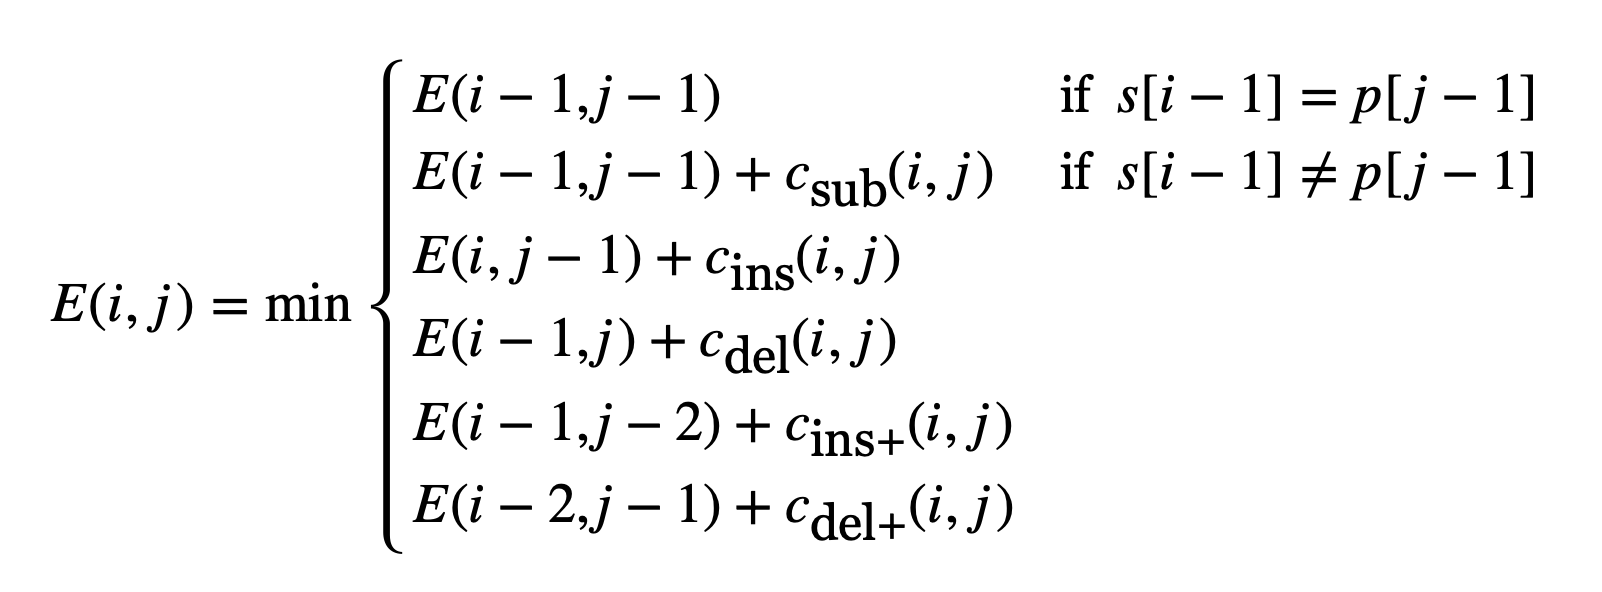
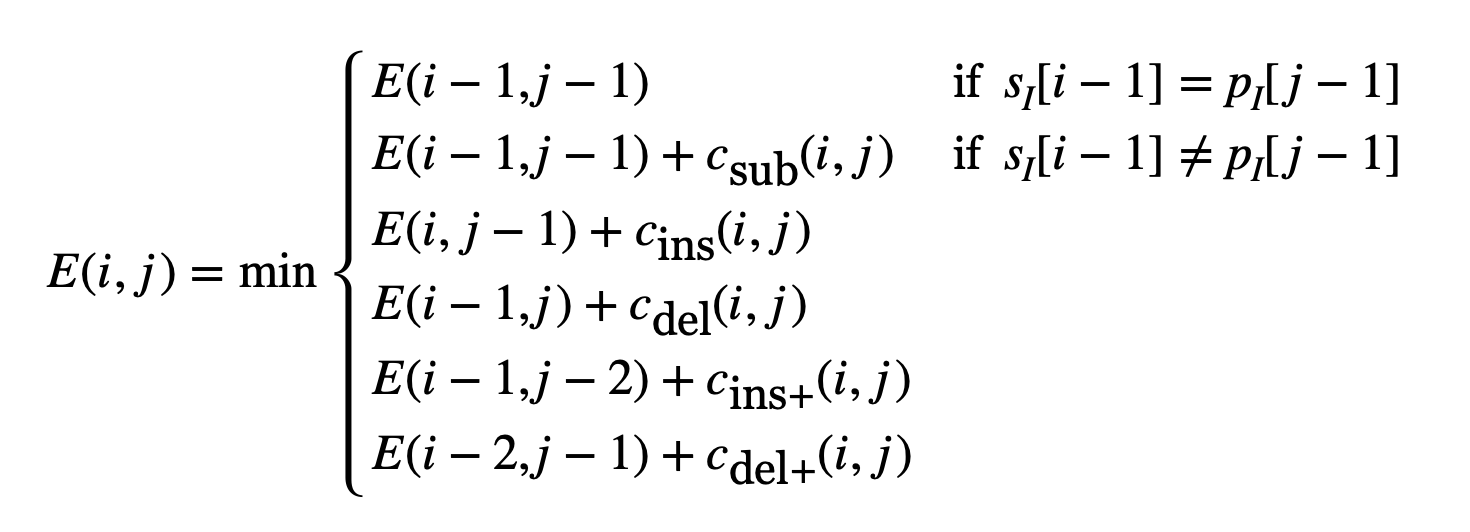
Updated README to reflect algorithmic implementation of duration inclusion

Changed region(s): [[0.0306, 0.0902, 0.9796, 0.9323], [0.6429, 0.1203, 0.9796, 0.2105]]

diff --git a/model/transformed_intervals.py b/model/transformed_intervals.py
@@ -26,3 +26,4 @@ class TransformedIntervals:
 
     def set_transformation(self, transformation: Transformation) -> None:
         self.values = self.get_transformation(transformation)
+        self.transformation = transformation

diff --git a/README.md b/README.md
@@ -127,11 +127,13 @@ However, unlike typical applications of *edit distance*, it is not matched based
 
 Using the sequence of *intervals* as the basis for fuzzy matching, it's now possible to account for interval contractions/dilations in subsequent subject statements. One can think also of this as "soft" matching.
 
-In the code and here, we will refer to a *voice* as a **note sequence** or **stream**. The subject is synonymously called the **pattern**. The *stream* is almost always longer than the *pattern*, and like its name suggests, the *stream* continuously provides a window (i.e. a buffer) for the *pattern* to iteratively match over the entire piece of music. Again, recall that the *intervals* are used, not the absolute pitches. Let's refer to the length of the sequence of intervals for the stream and pattern to, respectively, be $S$ and $P$. Note, it should be apparent that, in code, voices are treated as separate entities as *note sequences* and are processed independently, even though notes do coincide between voices.
+Another factor which contributes to the matching process is the *durations* of the notes themselves. While intervals may contribute to the majority of the accuracy provided by the matching algorithm, only note duration will be able to provide distinction between a subject statement and both a mere stream of supporting notes and transformations such as *augmentation* and *diminution*. Thus, *intervals* and *durations* must be combined together in an intuitive way which captures the expected matching behaviour.
+
+In the code and here, we will refer to a *voice* as a **note sequence** or **stream**. The subject is synonymously called the **pattern**. The *stream* is almost always longer than the *pattern*, and like its name suggests, the *stream* continuously provides a window (i.e. a buffer) for the *pattern* to iteratively match over the entire piece of music. Again, recall that the *intervals* and *durations* are used, not the absolute pitches. Let's refer to the length of the sequence of intervals for the stream and pattern to, respectively, be $S$ and $P$. Note, it should be apparent that, in code, voices are treated as separate entities as *note sequences* and are processed independently, even though notes do coincide between voices.
 
 ![stream-pattern matching](images/stream_pattern_matching.jpeg)
 
-There are two clear issues with what is shown above. Because note insertion/deletion is possible for the stream, a window size fixed to the length of the pattern is insufficient to capture all likely alterations. Thus, a reasonable assumption to make is that the number of matched notes in the stream is at most some factor $n$ times the size of the pattern sequence intervals $P$. A typical factor is $2$. Another issue is that sequential step-by-step iteration of the pattern over the stream is far too inefficient and uses too many unnecessary comparisons when, visually, one can tell that various parts of the pattern are distinct.
+There are two clear issues with what is shown above. Because note insertion/deletion is possible for the stream, a window size fixed to the length of the pattern is insufficient to capture all likely alterations. Thus, a reasonable assumption to make is that the number of matched notes in the stream is at most some factor $n$ times the size of the pattern sequence intervals $P$. A typical factor is $2$, but circumstances may require such factor to be slightly less than $2$. Another issue is that sequential step-by-step iteration of the pattern over the stream is far too inefficient and uses too many unnecessary comparisons when, visually, one can tell that various parts of the pattern are distinct.
 
 There are three levels to the entire algorithm. The lower-level algorithm does something analogous to fuzzy substring matching, the higher-level algorithm controls optimized window propagation, while the final wrapper on the higher-level algorithm uses weighted interval scheduling to select the best transformations to highlight.
 
@@ -139,7 +141,7 @@ There are three levels to the entire algorithm. The lower-level algorithm does s
 
 Let us assume we have a stream window of length $2P$ and pattern length $P$. A typical implementation of edit distance between the stream and pattern calculates the distance between both entire sequences. The issue with this approach is that intermediate edit distance values calculate distance from the start of the stream, which would include costs that are irrelevant.
 
-Assuming the memoization matrix is of dimension $(S + 1) \times (P + 1)$, a known solution is to begin the algorithm by filling the first column with $0$ (to indicate $0$ cost of shifts) and the typical cumulative sum of costs of the absolute value of each interval value in the pattern sequence for the first row. The matrix is then filled *bottom-up* based on the diagram below and associated recurrence relation where the *stream* and *pattern* are denoted *s* and *p* respectively. Edit distance function is denoted by $E$.
+Assuming the memoization matrix is of dimension $(S + 1) \times (P + 1)$, a known solution is to begin the algorithm by filling the first column with $0$ (to indicate $0$ cost of shifts) and the typical cumulative sum of costs of each interval and duration value in the pattern sequence for the first row. The matrix is then filled *bottom-up* based on the diagram below and associated recurrence relation where the *stream* and *pattern* are denoted *s* and *p* respectively. Edit distance function is denoted by $E$. Furthermore, $s_I$ and $s_D$ denote *stream intervals* and *stream durations*, and $p_I$ and $p_D$ denote *pattern intervals* and *pattern durations*.
 
 ![edit distance table](images/edit_distance_table.png)
 
@@ -149,7 +151,11 @@ Observe that, unlike typical edit distance, there are two additional cases at th
 
 ![edit distance costs](images/cost_definitions.png)
 
-Operators and values with an asterisk denote edge case handling for rests in the music where intervals are not applicable (i.e. interval between note and rest does not exist). These edge cases are important and do actually affect the outcome of the matching results. Absolute differences are used to model "distance". Finally, a scaling function $f$ is applied to the absolute difference to level off cost as the difference grows. The function is typically $f(x)=\sqrt{cx}$ for some $c\in\mathbb{N^+}$ to avoid one single large interval deviation from preventing the pattern from matching.
+Operators and values marked with an **asterisk** denote edge case handling for rests in the music where intervals are not applicable (i.e. interval between note and rest does not exist). These edge cases are important and do actually affect the outcome of the matching results.
+
+**Absolute differences** between the intervals are used to model *interval similarity*. Expressions marked with $\ge 1$ are something I call **absolute divisors**. They are the multiplicative analog of the idea of *absolute difference*. The numerator and denominator are chosen from the arguments such that the expression evaluates to a number $\ge 1$. This helps scale the costs in proportion to the durations of the notes being compared. Note that the indices for $s_D$ and $p_D$ are $1$ higher than those for $s_I$ and $p_I$ because the list of *durations* is $1$ larger in size than the list of *intervals*.
+
+Finally, a scaling function $f$ is applied to the absolute difference to level off cost as the difference grows. The function is typically $f(x)=\sqrt{cx}$ for some $c\in\mathbb{N^+}$ to avoid one single large interval deviation from preventing the pattern from matching.
 
 The visual motivation for the definitions of $c_\text{ins+}$ and $c_\text{del+}$ are shown below. "Insertion" and "deletion" are just arbitrary semantics in this case, but the idea for the costs are based off of the observation that the compression of the intervals as a result of the added note should sum up to remain constant as before.
 
@@ -228,7 +234,7 @@ So, the total time complexity is $O\left( \frac{L}{P} * S * P + \left(\frac{L}{P
   - [x] Reversal-Inversion
   - [ ] Augmentation
   - [ ] Diminution
-- [ ] Note duration inclusion in edit distance
+- [x] Note duration inclusion in edit distance
 - [ ] Chord handling
 - [ ] Remove need for time signature
 - [ ] Fugue detection with score through keyword title matching
